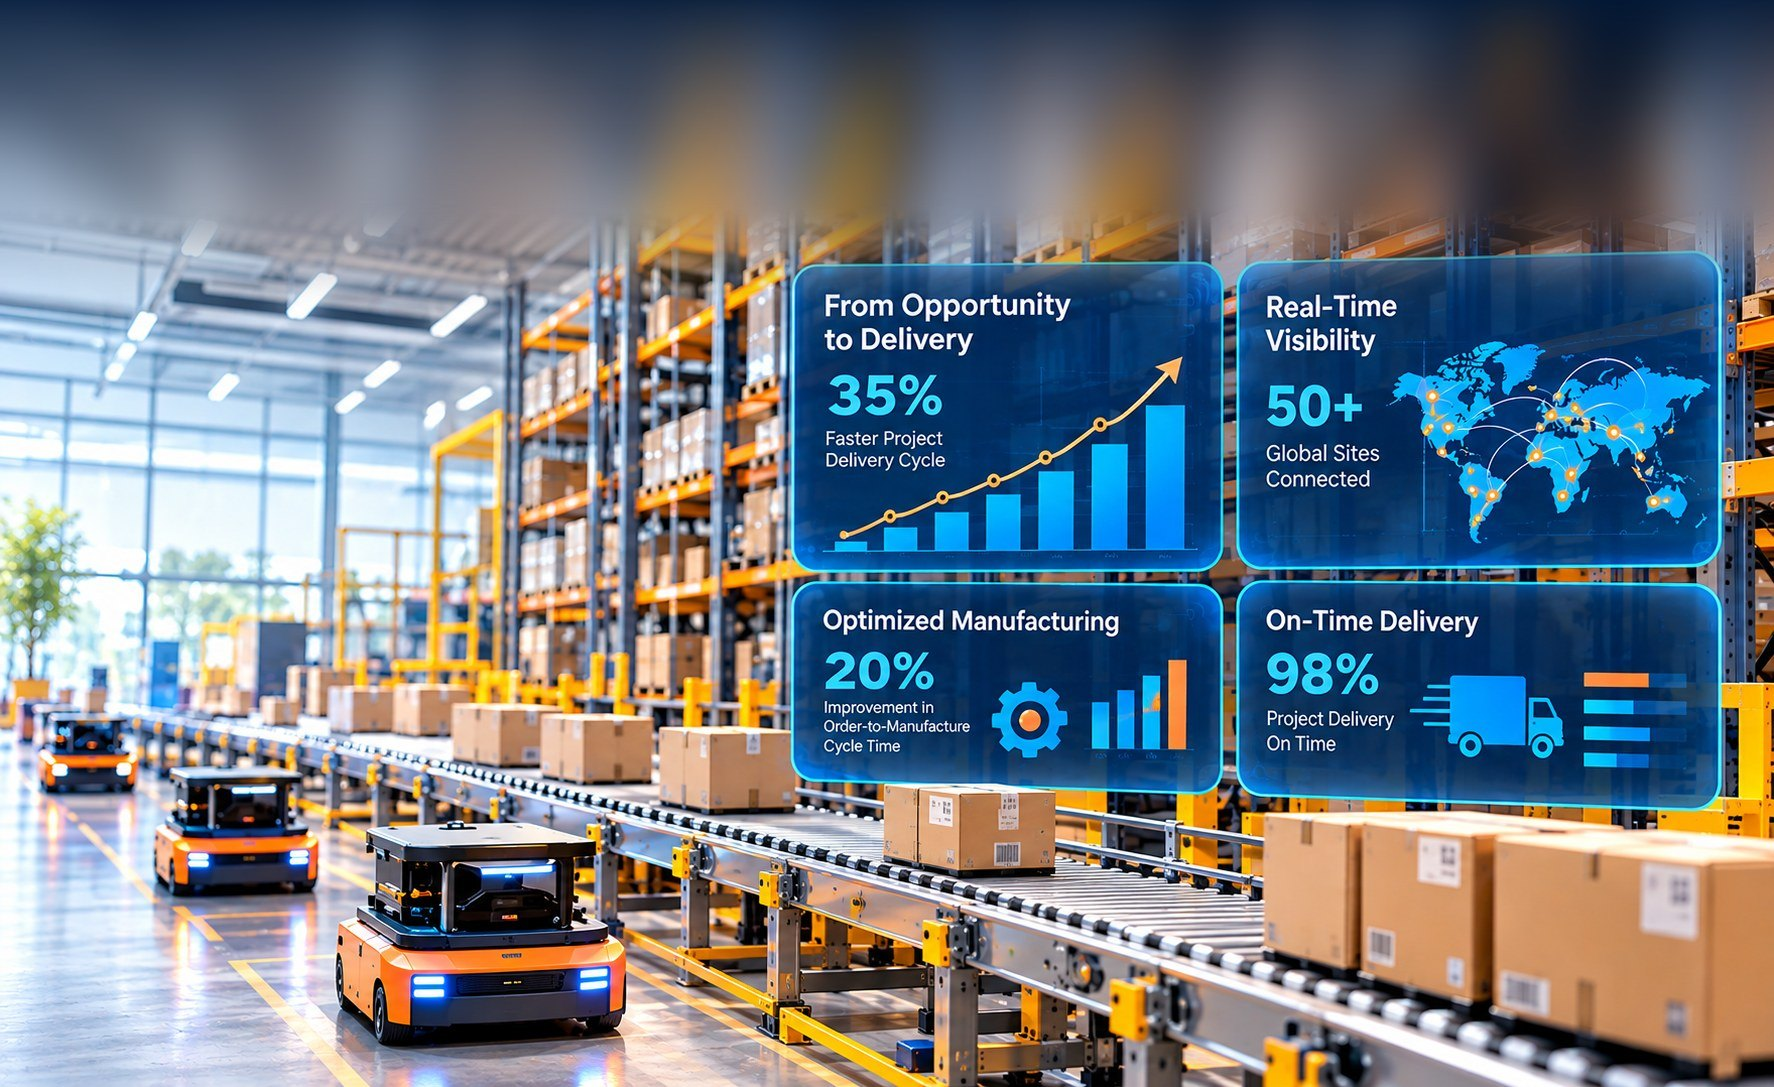
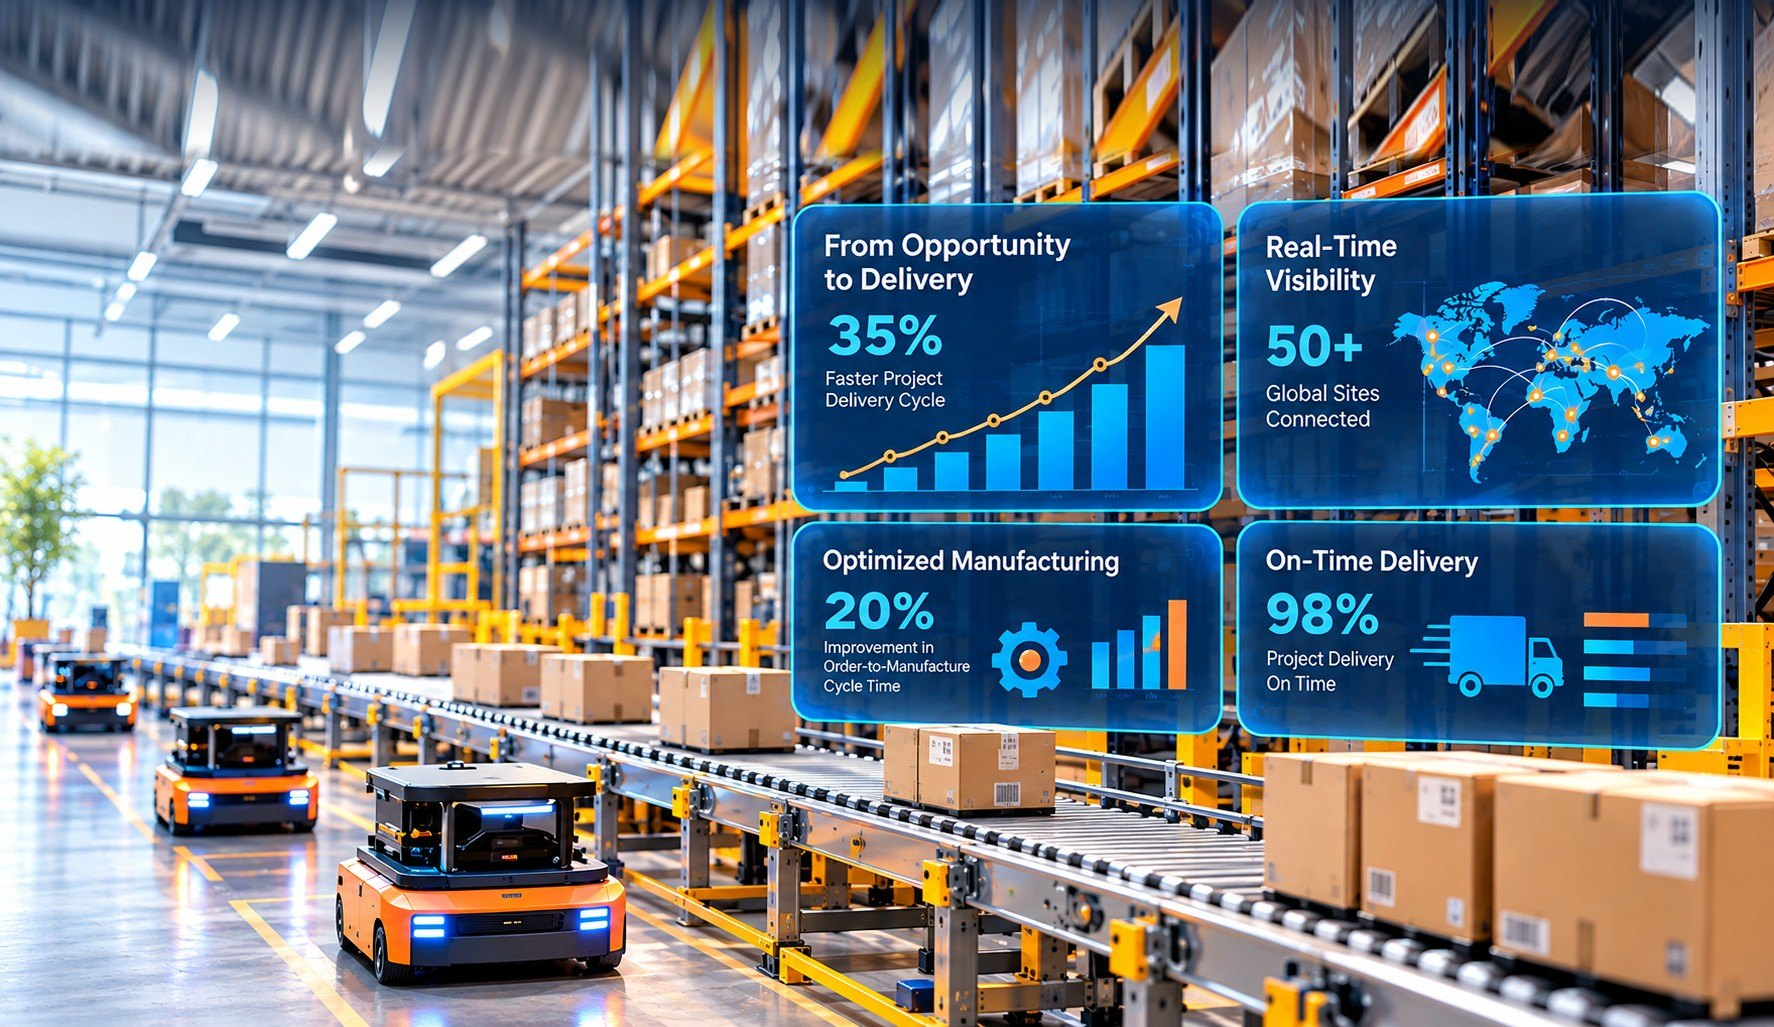
Dematic hero: sharp ceiling extension instead of blurred one
Rebuild the desktop artwork by stretching the clean top rack rows vertically
(uprights stay crisp) with a light navy shade, and update the image ratio.

diff --git a/assets/css/dematic-case-study.css b/assets/css/dematic-case-study.css
@@ -206,9 +206,10 @@ body.infometry-dematic-case-study-page #Header { min-height: 0 !important; }
 .dematic-hero-mobile-visual { display: none; }
 
 /*
- * Desktop hero artwork (1774x1087, ratio 1.632) is the banner with a softened,
- * navy-veiled ceiling added on top, so the theme menu sits on the image while the
- * dashboard panels start below it (~23% down) on every screen. It is
+ * Desktop hero artwork (1774x1027, ratio 1.727) is the banner with its clean
+ * top racks stretched upward (vertical-only, so uprights stay sharp) under a light
+ * navy shade, so the theme menu sits on the image while the
+ * dashboard panels start below it (~19% down) on every screen. It is
  * height-fitted and pinned to the viewport's right edge, so wide screens never
  * show an empty strip. --dematic-img-w is its rendered width; the fade layer is
  * sized to it plus a 240px ramp on its left and is fully opaque over the
@@ -222,7 +223,7 @@ body.infometry-dematic-case-study-page #Header { min-height: 0 !important; }
 @media (min-width: 1025px) {
 	.dematic-hero {
 		--dematic-hero-h: clamp(480px, 40vw, 680px);
-		--dematic-img-w: calc(var(--dematic-hero-h) * 1.632);
+		--dematic-img-w: calc(var(--dematic-hero-h) * 1.727);
 		--dematic-panel-x: calc(100vw - var(--dematic-img-w) * .555);
 		--dematic-hero-gap: 160px;
 		--dematic-copy-max: 640px;
